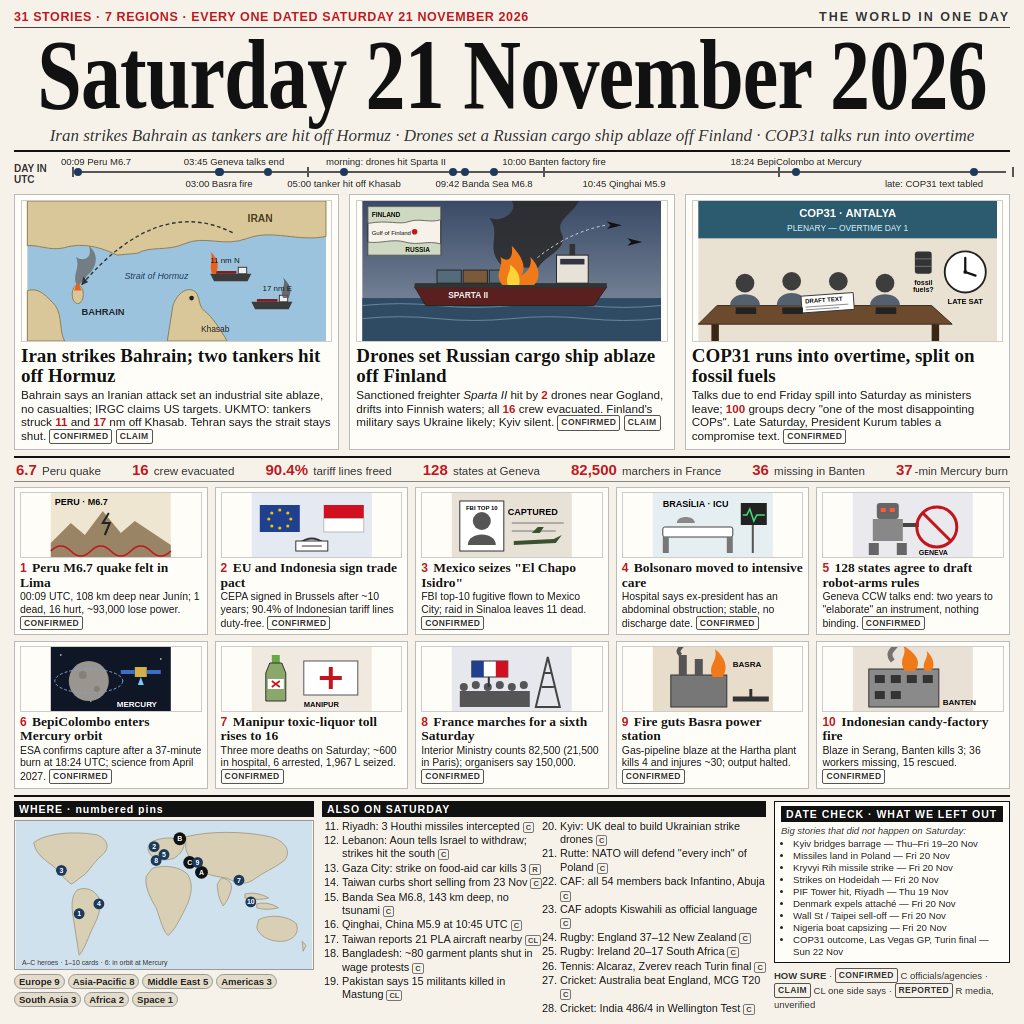
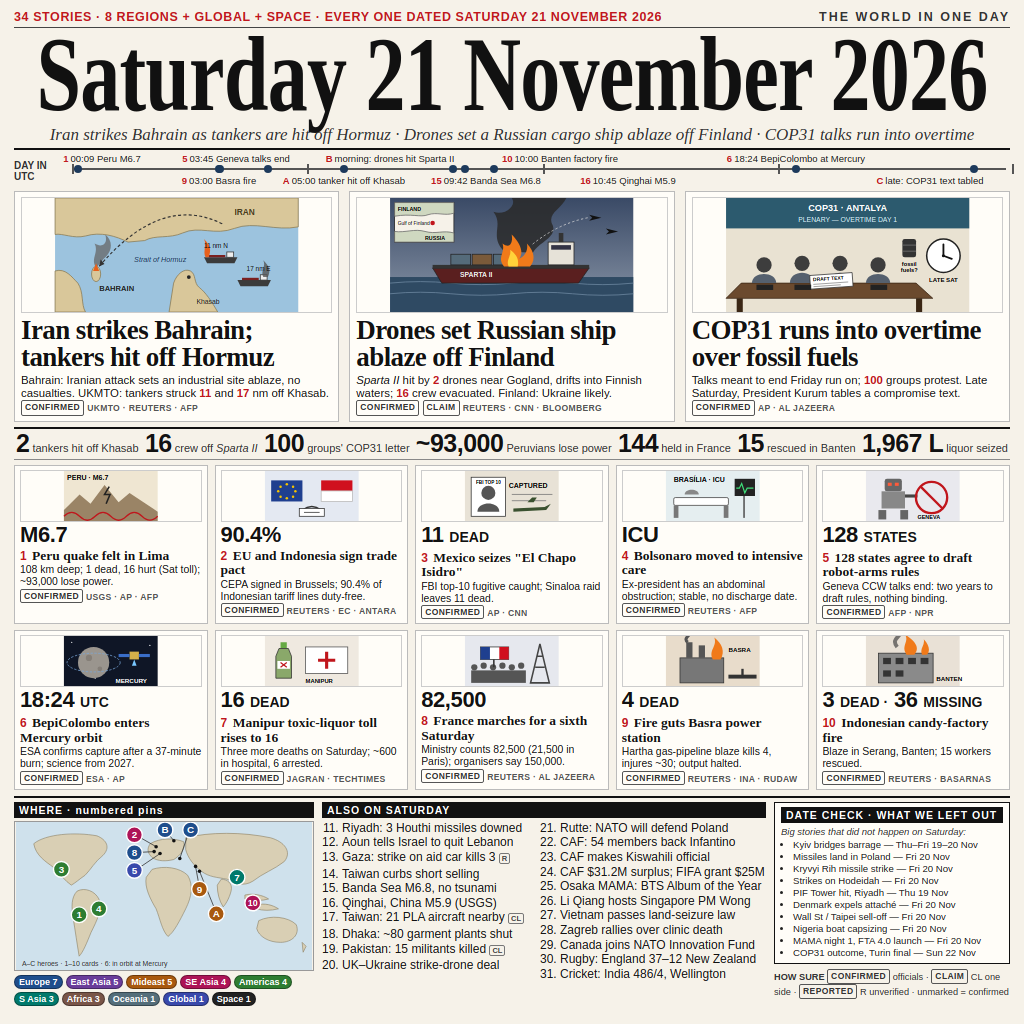
v7: 34 dated Saturday stories, 8 regions + global + space, source credits, bigger hero headlines and numbers, region-coloured map

diff --git a/frontpage.html b/frontpage.html
@@ -11,8 +11,10 @@ body{font-family:"Liberation Sans",Arial,sans-serif;color:#151515;padding:10px 1
 .strap{display:flex;justify-content:space-between;align-items:center;font-size:12.5px;font-weight:700;letter-spacing:.6px;border-bottom:1px solid #444;padding-bottom:3px}
 .strap .red{color:#c0161c}
 .strap .mast{color:#333;letter-spacing:2px}
-.date{font-family:"Liberation Serif",serif;font-weight:700;color:#111;font-size:100px;line-height:88px;letter-spacing:-1px;white-space:nowrap;margin-top:3px;width:max-content;position:relative;left:50%;transform:translateX(-50%) scaleX(.8)}
-.deck{font-family:"Liberation Serif",serif;font-style:italic;font-size:17px;text-align:center;color:#333;margin:7px 0 4px;border-bottom:2px solid #111;padding-bottom:4px}
+.date{font-family:"Liberation Serif",serif;font-weight:700;color:#111;font-size:106px;line-height:90px;letter-spacing:-1px;white-space:nowrap;margin-top:2px;width:max-content;position:relative;left:50%;transform:translateX(-50%) scaleX(.755)}
+.deck{font-family:"Liberation Serif",serif;font-style:italic;font-size:17px;text-align:center;color:#333;margin:5px 0 3px;border-bottom:2px solid #111;padding-bottom:3px}
+.src{font-size:8.6px;font-weight:700;letter-spacing:.3px;color:#555;text-transform:uppercase;white-space:nowrap}
+.utc .ev b{color:#c0161c;margin-right:2px}
 .utc{position:relative;height:34px;margin:2px 0 4px}
 .utc .line{position:absolute;left:58px;right:4px;top:15px;height:2px;background:#555}
 .utc .lab{position:absolute;left:0;top:7px;font-size:10px;font-weight:700;color:#333;line-height:11px}
@@ -22,16 +24,18 @@ body{font-family:"Liberation Sans",Arial,sans-serif;color:#151515;padding:10px 1
 .utc .dot{position:absolute;top:12px;width:8px;height:8px;border-radius:50%;background:#1d3a5c;transform:translateX(-50%)}
 .heroes{display:flex;gap:10px}
 .hero{flex:1;background:#fffdf8;border:1px solid #bbb;padding:5px 6px 5px}
-.hero svg{display:block;width:100%;height:142px;border:1px solid #ccc}
-.hero h2{font-family:"Liberation Serif",serif;font-size:19px;line-height:20px;color:#111;margin:4px 0 2px}
-.hero p{font-size:11.6px;line-height:13.6px;color:#111}
+.hero svg{display:block;width:100%;height:116px;border:1px solid #ccc}
+.hero h2{font-family:"Liberation Serif",serif;font-weight:700;font-size:27px;line-height:27px;letter-spacing:-.6px;color:#111;margin:4px 0 3px}
+.hero p{font-size:11.4px;line-height:13.2px;color:#111}
 .num{color:#c0161c;font-weight:700}
 .tag{display:inline-block;font-size:8.5px;font-weight:700;letter-spacing:.4px;border:1px solid #555;padding:0 3px;border-radius:2px;color:#333;vertical-align:1px}
-.nums{display:flex;justify-content:space-between;border-top:2px solid #111;border-bottom:1px solid #888;margin:6px 0 5px;padding:3px 2px;font-size:11.5px;color:#333}
-.nums b{font-size:15px;margin-right:2px}
+.nums{display:flex;justify-content:space-between;align-items:baseline;border-top:2px solid #111;border-bottom:1px solid #888;margin:5px 0 5px;padding:1px 2px 2px;font-size:11px;line-height:13px;color:#333}
+.nums b{font-family:"Liberation Sans",sans-serif;font-size:25px;line-height:27px;letter-spacing:-.5px;margin-right:3px;color:#111}
 .cards{display:grid;grid-template-columns:repeat(5,1fr);gap:6px 7px}
 .card{background:#fffdf8;border:1px solid #bbb;padding:4px 5px 4px}
-.card svg{display:block;width:100%;height:66px;border:1px solid #ccc}
+.card svg{display:block;width:100%;height:52px;border:1px solid #ccc}
+.card .big{font-family:"Liberation Sans",sans-serif;font-weight:700;font-size:22px;line-height:22px;letter-spacing:-.4px;color:#111;margin-top:2px;white-space:nowrap}
+.card .big small{font-size:14px;letter-spacing:0}
 .card h3{font-family:"Liberation Serif",serif;font-size:13.5px;line-height:14.5px;color:#111;margin:3px 0 1px}
 .card h3 .num{font-family:"Liberation Sans",sans-serif;font-size:12px;margin-right:2px}
 .card p{font-size:10.4px;line-height:12.2px;color:#111}
@@ -40,20 +44,21 @@ body{font-family:"Liberation Sans",Arial,sans-serif;color:#151515;padding:10px 1
 .mapbox{width:300px}
 .mapbox svg{display:block;width:300px;height:150px;border:1px solid #999}
 .chips{display:flex;flex-wrap:wrap;gap:3px;margin-top:4px}
-.chips span{font-size:9.5px;font-weight:700;background:#e4dccb;border:1px solid #999;padding:1px 4px;border-radius:8px;color:#222}
+.chips span{font-size:9px;font-weight:700;border:1px solid rgba(0,0,0,.35);padding:1px 4px;border-radius:8px;color:#fff}
+.chips .eu{background:#1f4e8c}.chips .ea{background:#6a3d9a}.chips .se{background:#ad1457}.chips .oc{background:#546e7a}.chips .me{background:#a8590f}.chips .am{background:#2e7d32}.chips .sa{background:#00796b}.chips .af{background:#795548}.chips .gl{background:#3949ab}.chips .sp{background:#222}
 .index{flex:1}
-.index ol{columns:2;column-gap:12px;font-size:10.8px;line-height:13.4px;color:#111;padding-left:20px}
+.index ol{columns:2;column-gap:12px;font-size:12px;line-height:14.6px;color:#111;padding-left:20px}
 .index li{break-inside:avoid}
 .tg{font-size:7.5px;font-weight:700;border:1px solid #777;padding:0 2px;border-radius:2px;color:#444}
 .side{width:236px;display:flex;flex-direction:column;gap:5px}
 .left{border:1.5px solid #111;padding:4px 6px;background:#fffdf8}
 .left p{font-size:9.5px;font-style:italic;color:#333;margin-bottom:2px}
 .left ul{font-size:9.6px;line-height:12px;padding-left:12px;color:#222}
-.legend{font-size:9.5px;line-height:13px;color:#333}
+.legend{font-size:9.2px;line-height:13px;color:#333}
 </style>
 </head>
 <body>
-<div class="strap"><span class="red">31 STORIES · 7 REGIONS · EVERY ONE DATED SATURDAY 21 NOVEMBER 2026</span><span class="mast">THE WORLD IN ONE DAY</span></div>
+<div class="strap"><span class="red">34 STORIES · 8 REGIONS + GLOBAL + SPACE · EVERY ONE DATED SATURDAY 21 NOVEMBER 2026</span><span class="mast">THE WORLD IN ONE DAY</span></div>
 <div class="date">Saturday 21 November 2026</div>
 <div class="deck">Iran strikes Bahrain as tankers are hit off Hormuz · Drones set a Russian cargo ship ablaze off Finland · COP31 talks run into overtime</div>
 
@@ -62,16 +67,16 @@ body{font-family:"Liberation Sans",Arial,sans-serif;color:#151515;padding:10px 1
   <div class="line"></div>
   <!-- 0h at 58px, 24h at 1000px : 39.25 px per hour -->
   <div class="tk" style="left:58px"></div><div class="tk" style="left:293px"></div><div class="tk" style="left:529px"></div><div class="tk" style="left:764px"></div><div class="tk" style="left:998px"></div>
-  <div class="dot" style="left:64px"></div><div class="ev" style="left:82px">00:09 Peru M6.7</div>
-  <div class="dot" style="left:205px"></div><div class="ev b" style="left:205px">03:00 Basra fire</div>
-  <div class="dot" style="left:206px"></div><div class="ev" style="left:220px">03:45 Geneva talks end</div>
-  <div class="dot" style="left:254px"></div><div class="ev b" style="left:330px">05:00 tanker hit off Khasab</div>
-  <div class="dot" style="left:330px"></div><div class="ev" style="left:372px">morning: drones hit Sparta II</div>
-  <div class="dot" style="left:439px"></div><div class="ev b" style="left:470px">09:42 Banda Sea M6.8</div>
-  <div class="dot" style="left:451px"></div><div class="ev" style="left:540px">10:00 Banten factory fire</div>
-  <div class="dot" style="left:480px"></div><div class="ev b" style="left:610px">10:45 Qinghai M5.9</div>
-  <div class="dot" style="left:782px"></div><div class="ev" style="left:782px">18:24 BepiColombo at Mercury</div>
-  <div class="dot" style="left:960px"></div><div class="ev b" style="left:920px">late: COP31 text tabled</div>
+  <div class="dot" style="left:64px"></div><div class="ev" style="left:88px"><b>1</b>00:09 Peru M6.7</div>
+  <div class="dot" style="left:205px"></div><div class="ev b" style="left:205px"><b>9</b>03:00 Basra fire</div>
+  <div class="dot" style="left:206px"></div><div class="ev" style="left:222px"><b>5</b>03:45 Geneva talks end</div>
+  <div class="dot" style="left:254px"></div><div class="ev b" style="left:330px"><b>A</b>05:00 tanker hit off Khasab</div>
+  <div class="dot" style="left:330px"></div><div class="ev" style="left:376px"><b>B</b>morning: drones hit Sparta II</div>
+  <div class="dot" style="left:439px"></div><div class="ev b" style="left:472px"><b>15</b>09:42 Banda Sea M6.8</div>
+  <div class="dot" style="left:451px"></div><div class="ev" style="left:546px"><b>10</b>10:00 Banten factory fire</div>
+  <div class="dot" style="left:480px"></div><div class="ev b" style="left:614px"><b>16</b>10:45 Qinghai M5.9</div>
+  <div class="dot" style="left:782px"></div><div class="ev" style="left:782px"><b>6</b>18:24 BepiColombo at Mercury</div>
+  <div class="dot" style="left:960px"></div><div class="ev b" style="left:916px"><b>C</b>late: COP31 text tabled</div>
 </div>
 
 <div class="heroes">
@@ -103,8 +108,8 @@ body{font-family:"Liberation Sans",Arial,sans-serif;color:#151515;padding:10px 1
    <path d="M220 34 Q140 -6 58 90" fill="none" stroke="#333" stroke-width="1.5" stroke-dasharray="4 3"/>
    <path d="M58 90 l2 -9 l5 6 z" fill="#333"/>
   </svg>
-  <h2>Iran strikes Bahrain; two tankers hit off Hormuz</h2>
-  <p>Bahrain says an Iranian attack set an industrial site ablaze, no casualties; IRGC claims US targets. UKMTO: tankers struck <span class="num">11</span> and <span class="num">17</span> nm off Khasab. Tehran says the strait stays shut. <span class="tag">CONFIRMED</span> <span class="tag">CLAIM</span></p>
+  <h2>Iran strikes Bahrain; tankers hit off Hormuz</h2>
+  <p>Bahrain: Iranian attack sets an industrial site ablaze, no casualties. UKMTO: tankers struck <span class="num">11</span> and <span class="num">17</span> nm off Khasab.<br><span class="tag">CONFIRMED</span> <span class="src">UKMTO · Reuters · AFP</span></p>
  </div>
  <div class="hero">
   <svg viewBox="0 0 320 150" xmlns="http://www.w3.org/2000/svg">
@@ -138,8 +143,8 @@ body{font-family:"Liberation Sans",Arial,sans-serif;color:#151515;padding:10px 1
     <text x="40" y="49" font-size="7" font-family="Liberation Sans" font-weight="700">RUSSIA</text>
     <circle cx="50" cy="27" r="3" fill="#c0161c"/><text x="4" y="30" font-size="6.5" font-family="Liberation Sans">Gulf of Finland</text></g>
   </svg>
-  <h2>Drones set Russian cargo ship ablaze off Finland</h2>
-  <p>Sanctioned freighter <i>Sparta II</i> hit by <span class="num">2</span> drones near Gogland, drifts into Finnish waters; all <span class="num">16</span> crew evacuated. Finland's military says Ukraine likely; Kyiv silent. <span class="tag">CONFIRMED</span> <span class="tag">CLAIM</span></p>
+  <h2>Drones set Russian ship ablaze off Finland</h2>
+  <p><i>Sparta II</i> hit by <span class="num">2</span> drones near Gogland, drifts into Finnish waters; <span class="num">16</span> crew evacuated. Finland: Ukraine likely.<br><span class="tag">CONFIRMED</span> <span class="tag">CLAIM</span> <span class="src">Reuters · CNN · Bloomberg</span></p>
  </div>
  <div class="hero">
   <svg viewBox="0 0 320 150" xmlns="http://www.w3.org/2000/svg">
@@ -162,35 +167,35 @@ body{font-family:"Liberation Sans",Arial,sans-serif;color:#151515;padding:10px 1
    <!-- name plates -->
    <g font-size="6.5" font-family="Liberation Sans" fill="#fff"><rect x="40" y="114" width="22" height="7" fill="#222"/><rect x="90" y="114" width="22" height="7" fill="#222"/><rect x="190" y="114" width="22" height="7" fill="#222"/></g>
   </svg>
-  <h2>COP31 runs into overtime, split on fossil fuels</h2>
-  <p>Talks due to end Friday spill into Saturday as ministers leave; <span class="num">100</span> groups decry "one of the most disappointing COPs". Late Saturday, President Kurum tables a compromise text. <span class="tag">CONFIRMED</span></p>
+  <h2>COP31 runs into overtime over fossil fuels</h2>
+  <p>Talks meant to end Friday run on; <span class="num">100</span> groups protest. Late Saturday, President Kurum tables a compromise text.<br><span class="tag">CONFIRMED</span> <span class="src">AP · Al Jazeera</span></p>
  </div>
 </div>
 <div class="nums">
- <span><b class="num">6.7</b> Peru quake</span><span><b class="num">16</b> crew evacuated</span><span><b class="num">90.4%</b> tariff lines freed</span><span><b class="num">128</b> states at Geneva</span><span><b class="num">82,500</b> marchers in France</span><span><b class="num">36</b> missing in Banten</span><span><b class="num">37</b>-min Mercury burn</span>
+ <span><b>2</b>tankers hit off Khasab</span><span><b>16</b>crew off <i>Sparta II</i></span><span><b>100</b>groups' COP31 letter</span><span><b>~93,000</b>Peruvians lose power</span><span><b>144</b>held in France</span><span><b>15</b>rescued in Banten</span><span><b>1,967 L</b>liquor seized</span>
 </div>
 
 <div class="cards">
- <div class="card"><svg viewBox="0 0 120 64"><rect width="120" height="64" fill="#efe6d2"/><path d="M0 50 L20 30 L34 42 L52 18 L70 40 L84 28 L120 52 V64 H0 Z" fill="#9a8466"/><path d="M0 58 Q10 48 20 58 T40 58 T60 58 T80 58 T100 58 T120 58" stroke="#c0161c" stroke-width="1.6" fill="none"/><path d="M58 20 l-6 10 l7 0 l-5 12" stroke="#222" stroke-width="2" fill="none"/><text x="4" y="12" font-size="9" font-family="Liberation Sans" font-weight="700">PERU · M6.7</text></svg>
-  <h3><span class="num">1</span> Peru M6.7 quake felt in Lima</h3><p>00:09 UTC, 108 km deep near Junín; 1 dead, 16 hurt, ~93,000 lose power. <span class="tag">CONFIRMED</span></p></div>
- <div class="card"><svg viewBox="0 0 120 64"><rect width="120" height="64" fill="#e4e9f2"/><rect x="8" y="12" width="40" height="27" fill="#1f3f8f"/><g fill="#f5c400"><circle cx="28" cy="17" r="1.6"/><circle cx="36" cy="20" r="1.6"/><circle cx="39" cy="26" r="1.6"/><circle cx="36" cy="33" r="1.6"/><circle cx="28" cy="35" r="1.6"/><circle cx="20" cy="33" r="1.6"/><circle cx="17" cy="26" r="1.6"/><circle cx="20" cy="20" r="1.6"/></g><rect x="72" y="12" width="40" height="13.5" fill="#d0101e"/><rect x="72" y="25.5" width="40" height="13.5" fill="#fff" stroke="#bbb"/><path d="M48 50 C56 44 64 44 72 50" stroke="#333" stroke-width="2" fill="none"/><rect x="44" y="48" width="32" height="10" fill="#fff" stroke="#333"/><path d="M50 53 h20" stroke="#333"/></svg>
-  <h3><span class="num">2</span> EU and Indonesia sign trade pact</h3><p>CEPA signed in Brussels after ~10 years; 90.4% of Indonesian tariff lines duty-free. <span class="tag">CONFIRMED</span></p></div>
- <div class="card"><svg viewBox="0 0 120 64"><rect width="120" height="64" fill="#e8e2d6"/><g transform="translate(8 8)"><rect width="44" height="50" fill="#fff" stroke="#333"/><circle cx="22" cy="20" r="9" fill="#555"/><path d="M8 44 C8 30 36 30 36 44 Z" fill="#555"/><text x="22" y="9" text-anchor="middle" font-size="6" font-family="Liberation Sans" font-weight="700">FBI TOP 10</text></g><text x="56" y="22" font-size="9" font-family="Liberation Sans" font-weight="700">CAPTURED</text><path d="M60 30 h52 M60 38 h44" stroke="#777"/><path d="M62 48 l40 -2 l8 -4 l-6 8 l-42 2 Z" fill="#3a5130"/><path d="M80 40 l6 -6 h6 l-4 6" fill="#3a5130"/></svg>
-  <h3><span class="num">3</span> Mexico seizes "El Chapo Isidro"</h3><p>FBI top-10 fugitive flown to Mexico City; raid in Sinaloa leaves 11 dead. <span class="tag">CONFIRMED</span></p></div>
- <div class="card"><svg viewBox="0 0 120 64"><rect width="120" height="64" fill="#e5eef0"/><rect x="10" y="34" width="70" height="10" rx="2" fill="#fff" stroke="#444"/><rect x="10" y="44" width="6" height="16" fill="#777"/><rect x="74" y="44" width="6" height="16" fill="#777"/><rect x="88" y="10" width="26" height="22" fill="#222"/><path d="M90 22 h4 l3 -6 l4 12 l3 -6 h8" stroke="#3fe07a" stroke-width="1.5" fill="none"/><rect x="99" y="32" width="2" height="28" fill="#555"/><path d="M24 30 c0-8 18-8 18 0 z" fill="#888"/><text x="10" y="14" font-size="9" font-family="Liberation Sans" font-weight="700">BRASÍLIA · ICU</text></svg>
-  <h3><span class="num">4</span> Bolsonaro moved to intensive care</h3><p>Hospital says ex-president has an abdominal obstruction; stable, no discharge date. <span class="tag">CONFIRMED</span></p></div>
- <div class="card"><svg viewBox="0 0 120 64"><rect width="120" height="64" fill="#e9e9ee"/><g transform="translate(16 10)"><rect x="8" y="0" width="22" height="16" rx="3" fill="#666"/><rect x="12" y="5" width="5" height="4" fill="#ff5a3a"/><rect x="21" y="5" width="5" height="4" fill="#ff5a3a"/><rect x="4" y="16" width="30" height="22" fill="#888"/><rect x="0" y="40" width="10" height="12" fill="#666"/><rect x="28" y="40" width="10" height="12" fill="#666"/><path d="M34 22 h16" stroke="#444" stroke-width="4"/></g><circle cx="84" cy="34" r="20" fill="none" stroke="#c0161c" stroke-width="3"/><path d="M70 20 L98 48" stroke="#c0161c" stroke-width="3"/><text x="66" y="62" font-size="7" font-family="Liberation Sans" font-weight="700">GENEVA</text></svg>
-  <h3><span class="num">5</span> 128 states agree to draft robot-arms rules</h3><p>Geneva CCW talks end: two years to "elaborate" an instrument, nothing binding. <span class="tag">CONFIRMED</span></p></div>
- <div class="card"><svg viewBox="0 0 120 64"><rect width="120" height="64" fill="#0f1626"/><g fill="#fff"><circle cx="10" cy="8" r=".8"/><circle cx="40" cy="54" r=".8"/><circle cx="110" cy="12" r=".8"/><circle cx="100" cy="56" r=".8"/></g><circle cx="38" cy="34" r="20" fill="#9a958e"/><circle cx="32" cy="28" r="4" fill="#857f78"/><circle cx="46" cy="42" r="3" fill="#857f78"/><ellipse cx="38" cy="34" rx="34" ry="12" fill="none" stroke="#7aa7d8" stroke-dasharray="3 2"/><g transform="translate(84 20)"><rect width="12" height="10" fill="#d4b04a"/><rect x="-14" y="3" width="14" height="4" fill="#3a6ec8"/><rect x="12" y="3" width="14" height="4" fill="#3a6ec8"/><path d="M6 10 l-3 8 h6 z" fill="#7ac8ff"/></g><text x="66" y="60" font-size="8" font-family="Liberation Sans" font-weight="700" fill="#fff">MERCURY</text></svg>
-  <h3><span class="num">6</span> BepiColombo enters Mercury orbit</h3><p>ESA confirms capture after a 37-minute burn at 18:24 UTC; science from April 2027. <span class="tag">CONFIRMED</span></p></div>
- <div class="card"><svg viewBox="0 0 120 64"><rect width="120" height="64" fill="#efe9e0"/><g transform="translate(14 8)"><rect x="6" y="0" width="8" height="8" fill="#6a4"/><path d="M4 8 h12 l4 10 v28 h-20 v-28 z" fill="#8aa86a" stroke="#333"/><rect x="2" y="24" width="16" height="10" fill="#fff"/><path d="M6 26 l8 6 M14 26 l-8 6" stroke="#c0161c" stroke-width="1.6"/></g><g transform="translate(52 14)"><rect width="54" height="34" fill="#fff" stroke="#555"/><path d="M27 6 v22 M16 17 h22" stroke="#c0161c" stroke-width="4"/></g><text x="52" y="60" font-size="7.5" font-family="Liberation Sans" font-weight="700">MANIPUR</text></svg>
-  <h3><span class="num">7</span> Manipur toxic-liquor toll rises to 16</h3><p>Three more deaths on Saturday; ~600 in hospital, 6 arrested, 1,967 L seized. <span class="tag">CONFIRMED</span></p></div>
- <div class="card"><svg viewBox="0 0 120 64"><rect width="120" height="64" fill="#e6e8ee"/><path d="M84 60 L96 10 L108 60 Z M90 40 h12 M93 26 h6" stroke="#444" stroke-width="2" fill="none"/><g fill="#555"><circle cx="12" cy="40" r="4"/><circle cx="24" cy="38" r="4"/><circle cx="36" cy="40" r="4"/><circle cx="48" cy="38" r="4"/><circle cx="60" cy="40" r="4"/><circle cx="72" cy="38" r="4"/><rect x="8" y="44" width="70" height="16"/></g><rect x="20" y="14" width="36" height="16" fill="#fff" stroke="#333"/><rect x="36" y="30" width="2" height="10" fill="#333"/><rect x="20" y="14" width="12" height="16" fill="#1f3f8f"/><rect x="44" y="14" width="12" height="16" fill="#d0101e"/></svg>
-  <h3><span class="num">8</span> France marches for a sixth Saturday</h3><p>Interior Ministry counts 82,500 (21,500 in Paris); organisers say 150,000. <span class="tag">CONFIRMED</span></p></div>
- <div class="card"><svg viewBox="0 0 120 64"><rect width="120" height="64" fill="#e8dccb"/><rect x="18" y="28" width="56" height="32" fill="#777" stroke="#333"/><rect x="26" y="8" width="8" height="20" fill="#555"/><rect x="42" y="12" width="8" height="16" fill="#555"/><path d="M60 30 C54 18 66 14 62 2 C72 10 76 20 70 30 Z" fill="#f07a1a"/><path d="M28 8 C20 2 36 -2 30 -8" stroke="#555" stroke-width="4" fill="none"/><path d="M80 52 h36" stroke="#333" stroke-width="5"/><path d="M98 52 v-10" stroke="#333" stroke-width="3"/><text x="80" y="20" font-size="8" font-family="Liberation Sans" font-weight="700">BASRA</text></svg>
-  <h3><span class="num">9</span> Fire guts Basra power station</h3><p>Gas-pipeline blaze at the Hartha plant kills 4 and injures ~30; output halted. <span class="tag">CONFIRMED</span></p></div>
- <div class="card"><svg viewBox="0 0 120 64"><rect width="120" height="64" fill="#e9e1d6"/><rect x="16" y="22" width="70" height="38" fill="#8a8a8a" stroke="#333"/><g fill="#333"><rect x="22" y="28" width="10" height="8"/><rect x="38" y="28" width="10" height="8"/><rect x="54" y="28" width="10" height="8"/><rect x="70" y="28" width="10" height="8"/><rect x="22" y="44" width="10" height="8"/><rect x="38" y="44" width="10" height="8"/></g><path d="M52 24 C44 12 56 8 50 -2 C62 6 70 14 62 24 Z M72 24 C68 16 76 12 74 4 C82 12 82 20 78 24 Z" fill="#f07a1a"/><path d="M40 14 C30 2 50 0 44 -10" stroke="#444" stroke-width="5" fill="none" opacity=".7"/><text x="90" y="58" font-size="8" font-family="Liberation Sans" font-weight="700">BANTEN</text></svg>
-  <h3><span class="num">10</span> Indonesian candy-factory fire</h3><p>Blaze in Serang, Banten kills 3; 36 workers missing, 15 rescued. <span class="tag">CONFIRMED</span></p></div>
+ <div class="card"><svg viewBox="0 0 120 64"><rect width="120" height="64" fill="#efe6d2"/><path d="M0 50 L20 30 L34 42 L52 18 L70 40 L84 28 L120 52 V64 H0 Z" fill="#9a8466"/><path d="M0 58 Q10 48 20 58 T40 58 T60 58 T80 58 T100 58 T120 58" stroke="#c0161c" stroke-width="1.6" fill="none"/><path d="M58 20 l-6 10 l7 0 l-5 12" stroke="#222" stroke-width="2" fill="none"/><text x="4" y="12" font-size="9" font-family="Liberation Sans" font-weight="700">PERU · M6.7</text></svg><div class="big">M6.7</div>
+  <h3><span class="num">1</span> Peru quake felt in Lima</h3><p>108 km deep; 1 dead, 16 hurt (Sat toll); ~93,000 lose power.<br><span class="tag">CONFIRMED</span> <span class="src">USGS · AP · AFP</span></p></div>
+ <div class="card"><svg viewBox="0 0 120 64"><rect width="120" height="64" fill="#e4e9f2"/><rect x="8" y="12" width="40" height="27" fill="#1f3f8f"/><g fill="#f5c400"><circle cx="28" cy="17" r="1.6"/><circle cx="36" cy="20" r="1.6"/><circle cx="39" cy="26" r="1.6"/><circle cx="36" cy="33" r="1.6"/><circle cx="28" cy="35" r="1.6"/><circle cx="20" cy="33" r="1.6"/><circle cx="17" cy="26" r="1.6"/><circle cx="20" cy="20" r="1.6"/></g><rect x="72" y="12" width="40" height="13.5" fill="#d0101e"/><rect x="72" y="25.5" width="40" height="13.5" fill="#fff" stroke="#bbb"/><path d="M48 50 C56 44 64 44 72 50" stroke="#333" stroke-width="2" fill="none"/><rect x="44" y="48" width="32" height="10" fill="#fff" stroke="#333"/><path d="M50 53 h20" stroke="#333"/></svg><div class="big">90.4%</div>
+  <h3><span class="num">2</span> EU and Indonesia sign trade pact</h3><p>CEPA signed in Brussels; 90.4% of Indonesian tariff lines duty-free.<br><span class="tag">CONFIRMED</span> <span class="src">Reuters · EC · Antara</span></p></div>
+ <div class="card"><svg viewBox="0 0 120 64"><rect width="120" height="64" fill="#e8e2d6"/><g transform="translate(8 8)"><rect width="44" height="50" fill="#fff" stroke="#333"/><circle cx="22" cy="20" r="9" fill="#555"/><path d="M8 44 C8 30 36 30 36 44 Z" fill="#555"/><text x="22" y="9" text-anchor="middle" font-size="6" font-family="Liberation Sans" font-weight="700">FBI TOP 10</text></g><text x="56" y="22" font-size="9" font-family="Liberation Sans" font-weight="700">CAPTURED</text><path d="M60 30 h52 M60 38 h44" stroke="#777"/><path d="M62 48 l40 -2 l8 -4 l-6 8 l-42 2 Z" fill="#3a5130"/><path d="M80 40 l6 -6 h6 l-4 6" fill="#3a5130"/></svg><div class="big">11 <small>DEAD</small></div>
+  <h3><span class="num">3</span> Mexico seizes "El Chapo Isidro"</h3><p>FBI top-10 fugitive caught; Sinaloa raid leaves 11 dead.<br><span class="tag">CONFIRMED</span> <span class="src">AP · CNN</span></p></div>
+ <div class="card"><svg viewBox="0 0 120 64"><rect width="120" height="64" fill="#e5eef0"/><rect x="10" y="34" width="70" height="10" rx="2" fill="#fff" stroke="#444"/><rect x="10" y="44" width="6" height="16" fill="#777"/><rect x="74" y="44" width="6" height="16" fill="#777"/><rect x="88" y="10" width="26" height="22" fill="#222"/><path d="M90 22 h4 l3 -6 l4 12 l3 -6 h8" stroke="#3fe07a" stroke-width="1.5" fill="none"/><rect x="99" y="32" width="2" height="28" fill="#555"/><path d="M24 30 c0-8 18-8 18 0 z" fill="#888"/><text x="10" y="14" font-size="9" font-family="Liberation Sans" font-weight="700">BRASÍLIA · ICU</text></svg><div class="big">ICU</div>
+  <h3><span class="num">4</span> Bolsonaro moved to intensive care</h3><p>Ex-president has an abdominal obstruction; stable, no discharge date.<br><span class="tag">CONFIRMED</span> <span class="src">Reuters · AFP</span></p></div>
+ <div class="card"><svg viewBox="0 0 120 64"><rect width="120" height="64" fill="#e9e9ee"/><g transform="translate(16 10)"><rect x="8" y="0" width="22" height="16" rx="3" fill="#666"/><rect x="12" y="5" width="5" height="4" fill="#ff5a3a"/><rect x="21" y="5" width="5" height="4" fill="#ff5a3a"/><rect x="4" y="16" width="30" height="22" fill="#888"/><rect x="0" y="40" width="10" height="12" fill="#666"/><rect x="28" y="40" width="10" height="12" fill="#666"/><path d="M34 22 h16" stroke="#444" stroke-width="4"/></g><circle cx="84" cy="34" r="20" fill="none" stroke="#c0161c" stroke-width="3"/><path d="M70 20 L98 48" stroke="#c0161c" stroke-width="3"/><text x="66" y="62" font-size="7" font-family="Liberation Sans" font-weight="700">GENEVA</text></svg><div class="big">128 <small>STATES</small></div>
+  <h3><span class="num">5</span> 128 states agree to draft robot-arms rules</h3><p>Geneva CCW talks end: two years to draft rules, nothing binding.<br><span class="tag">CONFIRMED</span> <span class="src">AFP · NPR</span></p></div>
+ <div class="card"><svg viewBox="0 0 120 64"><rect width="120" height="64" fill="#0f1626"/><g fill="#fff"><circle cx="10" cy="8" r=".8"/><circle cx="40" cy="54" r=".8"/><circle cx="110" cy="12" r=".8"/><circle cx="100" cy="56" r=".8"/></g><circle cx="38" cy="34" r="20" fill="#9a958e"/><circle cx="32" cy="28" r="4" fill="#857f78"/><circle cx="46" cy="42" r="3" fill="#857f78"/><ellipse cx="38" cy="34" rx="34" ry="12" fill="none" stroke="#7aa7d8" stroke-dasharray="3 2"/><g transform="translate(84 20)"><rect width="12" height="10" fill="#d4b04a"/><rect x="-14" y="3" width="14" height="4" fill="#3a6ec8"/><rect x="12" y="3" width="14" height="4" fill="#3a6ec8"/><path d="M6 10 l-3 8 h6 z" fill="#7ac8ff"/></g><text x="66" y="60" font-size="8" font-family="Liberation Sans" font-weight="700" fill="#fff">MERCURY</text></svg><div class="big">18:24 <small>UTC</small></div>
+  <h3><span class="num">6</span> BepiColombo enters Mercury orbit</h3><p>ESA confirms capture after a 37-minute burn; science from 2027.<br><span class="tag">CONFIRMED</span> <span class="src">ESA · AP</span></p></div>
+ <div class="card"><svg viewBox="0 0 120 64"><rect width="120" height="64" fill="#efe9e0"/><g transform="translate(14 8)"><rect x="6" y="0" width="8" height="8" fill="#6a4"/><path d="M4 8 h12 l4 10 v28 h-20 v-28 z" fill="#8aa86a" stroke="#333"/><rect x="2" y="24" width="16" height="10" fill="#fff"/><path d="M6 26 l8 6 M14 26 l-8 6" stroke="#c0161c" stroke-width="1.6"/></g><g transform="translate(52 14)"><rect width="54" height="34" fill="#fff" stroke="#555"/><path d="M27 6 v22 M16 17 h22" stroke="#c0161c" stroke-width="4"/></g><text x="52" y="60" font-size="7.5" font-family="Liberation Sans" font-weight="700">MANIPUR</text></svg><div class="big">16 <small>DEAD</small></div>
+  <h3><span class="num">7</span> Manipur toxic-liquor toll rises to 16</h3><p>Three more deaths on Saturday; ~600 in hospital, 6 arrested.<br><span class="tag">CONFIRMED</span> <span class="src">Jagran · TechTimes</span></p></div>
+ <div class="card"><svg viewBox="0 0 120 64"><rect width="120" height="64" fill="#e6e8ee"/><path d="M84 60 L96 10 L108 60 Z M90 40 h12 M93 26 h6" stroke="#444" stroke-width="2" fill="none"/><g fill="#555"><circle cx="12" cy="40" r="4"/><circle cx="24" cy="38" r="4"/><circle cx="36" cy="40" r="4"/><circle cx="48" cy="38" r="4"/><circle cx="60" cy="40" r="4"/><circle cx="72" cy="38" r="4"/><rect x="8" y="44" width="70" height="16"/></g><rect x="20" y="14" width="36" height="16" fill="#fff" stroke="#333"/><rect x="36" y="30" width="2" height="10" fill="#333"/><rect x="20" y="14" width="12" height="16" fill="#1f3f8f"/><rect x="44" y="14" width="12" height="16" fill="#d0101e"/></svg><div class="big">82,500</div>
+  <h3><span class="num">8</span> France marches for a sixth Saturday</h3><p>Ministry counts 82,500 (21,500 in Paris); organisers say 150,000.<br><span class="tag">CONFIRMED</span> <span class="src">Reuters · Al Jazeera</span></p></div>
+ <div class="card"><svg viewBox="0 0 120 64"><rect width="120" height="64" fill="#e8dccb"/><rect x="18" y="28" width="56" height="32" fill="#777" stroke="#333"/><rect x="26" y="8" width="8" height="20" fill="#555"/><rect x="42" y="12" width="8" height="16" fill="#555"/><path d="M60 30 C54 18 66 14 62 2 C72 10 76 20 70 30 Z" fill="#f07a1a"/><path d="M28 8 C20 2 36 -2 30 -8" stroke="#555" stroke-width="4" fill="none"/><path d="M80 52 h36" stroke="#333" stroke-width="5"/><path d="M98 52 v-10" stroke="#333" stroke-width="3"/><text x="80" y="20" font-size="8" font-family="Liberation Sans" font-weight="700">BASRA</text></svg><div class="big">4 <small>DEAD</small></div>
+  <h3><span class="num">9</span> Fire guts Basra power station</h3><p>Hartha gas-pipeline blaze kills 4, injures ~30; output halted.<br><span class="tag">CONFIRMED</span> <span class="src">Reuters · INA · Rudaw</span></p></div>
+ <div class="card"><svg viewBox="0 0 120 64"><rect width="120" height="64" fill="#e9e1d6"/><rect x="16" y="22" width="70" height="38" fill="#8a8a8a" stroke="#333"/><g fill="#333"><rect x="22" y="28" width="10" height="8"/><rect x="38" y="28" width="10" height="8"/><rect x="54" y="28" width="10" height="8"/><rect x="70" y="28" width="10" height="8"/><rect x="22" y="44" width="10" height="8"/><rect x="38" y="44" width="10" height="8"/></g><path d="M52 24 C44 12 56 8 50 -2 C62 6 70 14 62 24 Z M72 24 C68 16 76 12 74 4 C82 12 82 20 78 24 Z" fill="#f07a1a"/><path d="M40 14 C30 2 50 0 44 -10" stroke="#444" stroke-width="5" fill="none" opacity=".7"/><text x="90" y="58" font-size="8" font-family="Liberation Sans" font-weight="700">BANTEN</text></svg><div class="big">3 <small>DEAD ·</small> 36 <small>MISSING</small></div>
+  <h3><span class="num">10</span> Indonesian candy-factory fire</h3><p>Blaze in Serang, Banten; 15 workers rescued.<br><span class="tag">CONFIRMED</span> <span class="src">Reuters · Basarnas</span></p></div>
 </div>
 
 <div class="bottom">
@@ -218,45 +223,55 @@ body{font-family:"Liberation Sans",Arial,sans-serif;color:#151515;padding:10px 1
     <!-- NZ -->
     <path d="M290 122 l4 4 l-3 6 z"/>
    </g>
-   <g font-family="Liberation Sans" font-size="7" font-weight="700" fill="#fff">
-    <g transform="translate(64 94)"><circle r="5.5" fill="#1d3a5c"/><text x="0" y="2.5" text-anchor="middle">1</text></g>
-    <g transform="translate(46 50)"><circle r="5.5" fill="#1d3a5c"/><text x="0" y="2.5" text-anchor="middle">3</text></g>
-    <g transform="translate(84 84)"><circle r="5.5" fill="#1d3a5c"/><text x="0" y="2.5" text-anchor="middle">4</text></g>
-    <g transform="translate(140 26)"><circle r="5.5" fill="#1d3a5c"/><text x="0" y="2.5" text-anchor="middle">2</text></g>
-    <g transform="translate(150 34)"><circle r="5.5" fill="#1d3a5c"/><text x="0" y="2.5" text-anchor="middle">5</text></g>
-    <g transform="translate(142 40)"><circle r="5.5" fill="#1d3a5c"/><text x="0" y="2.5" text-anchor="middle">8</text></g>
-    <g transform="translate(166 18)"><circle r="6.5" fill="#111"/><text x="0" y="2.5" text-anchor="middle">B</text></g>
-    <g transform="translate(176 42)"><circle r="6.5" fill="#111"/><text x="0" y="2.5" text-anchor="middle">C</text></g>
-    <g transform="translate(188 52)"><circle r="6.5" fill="#111"/><text x="0" y="2.5" text-anchor="middle">A</text></g>
-    <g transform="translate(184 42)"><circle r="5.5" fill="#1d3a5c"/><text x="0" y="2.5" text-anchor="middle">9</text></g>
-    <g transform="translate(226 60)"><circle r="5.5" fill="#1d3a5c"/><text x="0" y="2.5" text-anchor="middle">7</text></g>
-    <g transform="translate(238 82)"><circle r="5.5" fill="#1d3a5c"/><text x="0" y="2.5" text-anchor="middle">10</text></g>
+   <!-- leader lines: true location dot -> pin -->
+   <g stroke="#333" stroke-width=".8" fill="none">
+    <path d="M142 25 L121 13"/><path d="M140 30 L121 31"/><path d="M146 32 L121 49"/>
+    <path d="M160 19 L151 8"/><path d="M166 37 L176 8"/>
+    <path d="M182 45 L186 67"/><path d="M186 50 L203 92"/>
+   </g>
+   <g fill="#111"><circle cx="142" cy="25" r="1.8"/><circle cx="140" cy="30" r="1.8"/><circle cx="146" cy="32" r="1.8"/><circle cx="160" cy="19" r="1.8"/><circle cx="166" cy="37" r="1.8"/><circle cx="182" cy="45" r="1.8"/><circle cx="186" cy="50" r="1.8"/></g>
+   <g font-family="Liberation Sans" font-size="10" font-weight="700" fill="#fff" stroke="#fff" stroke-width="1.4">
+    <circle cx="64" cy="94" r="8" fill="#2e7d32"/><circle cx="46" cy="48" r="8" fill="#2e7d32"/><circle cx="84" cy="88" r="8" fill="#2e7d32"/>
+    <circle cx="120" cy="13" r="8" fill="#ad1457"/><circle cx="120" cy="31" r="8" fill="#1f4e8c"/><circle cx="120" cy="49" r="8" fill="#3949ab"/>
+    <circle cx="151" cy="8" r="8" fill="#1f4e8c"/><circle cx="177" cy="8" r="8" fill="#1f4e8c"/>
+    <circle cx="186" cy="68" r="8" fill="#a8590f"/><circle cx="203" cy="93" r="8" fill="#a8590f"/>
+    <circle cx="224" cy="56" r="8" fill="#00796b"/><circle cx="240" cy="82" r="8" fill="#ad1457"/>
+   </g>
+   <g font-family="Liberation Sans" font-size="10" font-weight="700" fill="#fff" text-anchor="middle">
+    <text x="64" y="97.5">1</text><text x="46" y="51.5">3</text><text x="84" y="91.5">4</text>
+    <text x="120" y="16.5">2</text><text x="120" y="34.5">8</text><text x="120" y="52.5">5</text>
+    <text x="151" y="11.5">B</text><text x="177" y="11.5">C</text>
+    <text x="186" y="71.5">9</text><text x="203" y="96.5">A</text>
+    <text x="224" y="59.5">7</text><text x="240" y="85.5" font-size="9">10</text>
    </g>
    <text x="6" y="146" font-size="7" font-family="Liberation Sans" fill="#333">A–C heroes · 1–10 cards · 6: in orbit at Mercury</text>
   </svg>
-  <div class="chips"><span>Europe 9</span><span>Asia-Pacific 8</span><span>Middle East 5</span><span>Americas 3</span><span>South Asia 3</span><span>Africa 2</span><span>Space 1</span></div>
+  <div class="chips"><span class="eu">Europe 7</span><span class="ea">East Asia 5</span><span class="me">Mideast 5</span><span class="se">SE Asia 4</span><span class="am">Americas 4</span><span class="sa">S Asia 3</span><span class="af">Africa 3</span><span class="oc">Oceania 1</span><span class="gl">Global 1</span><span class="sp">Space 1</span></div>
  </div>
  <div class="index">
   <div class="bh">ALSO ON SATURDAY</div>
   <ol start="11">
-   <li>Riyadh: 3 Houthi missiles intercepted <span class="tg">C</span></li>
-   <li>Lebanon: Aoun tells Israel to withdraw; strikes hit the south <span class="tg">C</span></li>
-   <li>Gaza City: strike on food-aid car kills 3 <span class="tg">R</span></li>
-   <li>Taiwan curbs short selling from 23 Nov <span class="tg">C</span></li>
-   <li>Banda Sea M6.8, 143 km deep, no tsunami <span class="tg">C</span></li>
-   <li>Qinghai, China M5.9 at 10:45 UTC <span class="tg">C</span></li>
-   <li>Taiwan reports 21 PLA aircraft nearby <span class="tg">CL</span></li>
-   <li>Bangladesh: ~80 garment plants shut in wage protests <span class="tg">C</span></li>
-   <li>Pakistan says 15 militants killed in Mastung <span class="tg">CL</span></li>
-   <li>Kyiv: UK deal to build Ukrainian strike drones <span class="tg">C</span></li>
-   <li>Rutte: NATO will defend "every inch" of Poland <span class="tg">C</span></li>
-   <li>CAF: all 54 members back Infantino, Abuja <span class="tg">C</span></li>
-   <li>CAF adopts Kiswahili as official language <span class="tg">C</span></li>
-   <li>Rugby: England 37–12 New Zealand <span class="tg">C</span></li>
-   <li>Rugby: Ireland 20–17 South Africa <span class="tg">C</span></li>
-   <li>Tennis: Alcaraz, Zverev reach Turin final <span class="tg">C</span></li>
-   <li>Cricket: Australia beat England, MCG T20 <span class="tg">C</span></li>
-   <li>Cricket: India 486/4 in Wellington Test <span class="tg">C</span></li>
+   <li>Riyadh: 3 Houthi missiles downed</li>
+   <li>Aoun tells Israel to quit Lebanon</li>
+   <li>Gaza: strike on aid car kills 3 <span class="tg">R</span></li>
+   <li>Taiwan curbs short selling</li>
+   <li>Banda Sea M6.8, no tsunami</li>
+   <li>Qinghai, China M5.9 (USGS)</li>
+   <li>Taiwan: 21 PLA aircraft nearby <span class="tg">CL</span></li>
+   <li>Dhaka: ~80 garment plants shut</li>
+   <li>Pakistan: 15 militants killed <span class="tg">CL</span></li>
+   <li>UK–Ukraine strike-drone deal</li>
+   <li>Rutte: NATO will defend Poland</li>
+   <li>CAF: 54 members back Infantino</li>
+   <li>CAF makes Kiswahili official</li>
+   <li>CAF $31.2M surplus; FIFA grant $25M</li>
+   <li>Osaka MAMA: BTS Album of the Year</li>
+   <li>Li Qiang hosts Singapore PM Wong</li>
+   <li>Vietnam passes land-seizure law</li>
+   <li>Zagreb rallies over clinic death</li>
+   <li>Canada joins NATO Innovation Fund</li>
+   <li>Rugby: England 37–12 New Zealand</li>
+   <li>Cricket: India 486/4, Wellington</li>
   </ol>
  </div>
  <div class="side">
@@ -272,10 +287,11 @@ body{font-family:"Liberation Sans",Arial,sans-serif;color:#151515;padding:10px 1
     <li>Denmark expels attaché — Fri 20 Nov</li>
     <li>Wall St / Taipei sell-off — Fri 20 Nov</li>
     <li>Nigeria boat capsizing — Fri 20 Nov</li>
-    <li>COP31 outcome, Las Vegas GP, Turin final — Sun 22 Nov</li>
+    <li>MAMA night 1, FTA 4.0 launch — Fri 20 Nov</li>
+    <li>COP31 outcome, Turin final — Sun 22 Nov</li>
    </ul>
   </div>
-  <div class="legend"><b>HOW SURE</b> · <span class="tag">CONFIRMED</span> C officials/agencies · <span class="tag">CLAIM</span> CL one side says · <span class="tag">REPORTED</span> R media, unverified</div>
+  <div class="legend"><b>HOW SURE</b> <span class="tag">CONFIRMED</span> officials · <span class="tag">CLAIM</span> CL one side · <span class="tag">REPORTED</span> R unverified · unmarked = confirmed</div>
  </div>
 </div>
 </body>

diff --git a/README.md b/README.md
@@ -4,7 +4,7 @@
 [![rank](https://make.fun/badge/news-image-20261121/romafitos/news-image-20261121-dated-r3/rank.svg)](https://make.fun/bounty/news-image-20261121/leaderboard?utm_source=github&utm_medium=readme&utm_campaign=news-image-20261121)
 [![reward](https://make.fun/badge/news-image-20261121/romafitos/news-image-20261121-dated-r3/reward.svg)](https://make.fun/bounty/news-image-20261121?utm_source=github&utm_medium=readme&utm_campaign=news-image-20261121)
 
-One front page for **Saturday 21 November 2026**: 31 stories from 7 regions, every one of them an event that happened, or was first reported, that Saturday. Older stories that were still in the news are listed in a "What we left out" box with their real dates instead of being passed off as Saturday's.
+One front page for **Saturday 21 November 2026**: 34 stories from 8 regions plus global and space news, every one of them an event that happened, or was first reported, that Saturday. Older stories that were still in the news are listed in a "What we left out" box with their real dates instead of being passed off as Saturday's.
 
 The page leads with three illustrated scenes: Iran's strike on Bahrain and two tankers hit off Khasab near the Strait of Hormuz, drones setting the Russian cargo ship *Sparta II* on fire off Finland, and COP31 in Antalya running into overtime. Ten picture cards follow (Peru's M6.7 quake, the EU–Indonesia trade pact, the capture of "El Chapo Isidro", Bolsonaro in intensive care, the Geneva talks on autonomous weapons, BepiColombo reaching Mercury orbit, Manipur's toxic-liquor deaths, France's sixth Saturday of marches, the Basra power-station fire and the Banten candy-factory fire), then an 18-line index, a numbered pin map, a UTC timeline of the day and a confirmed / claim / reported legend.
 
